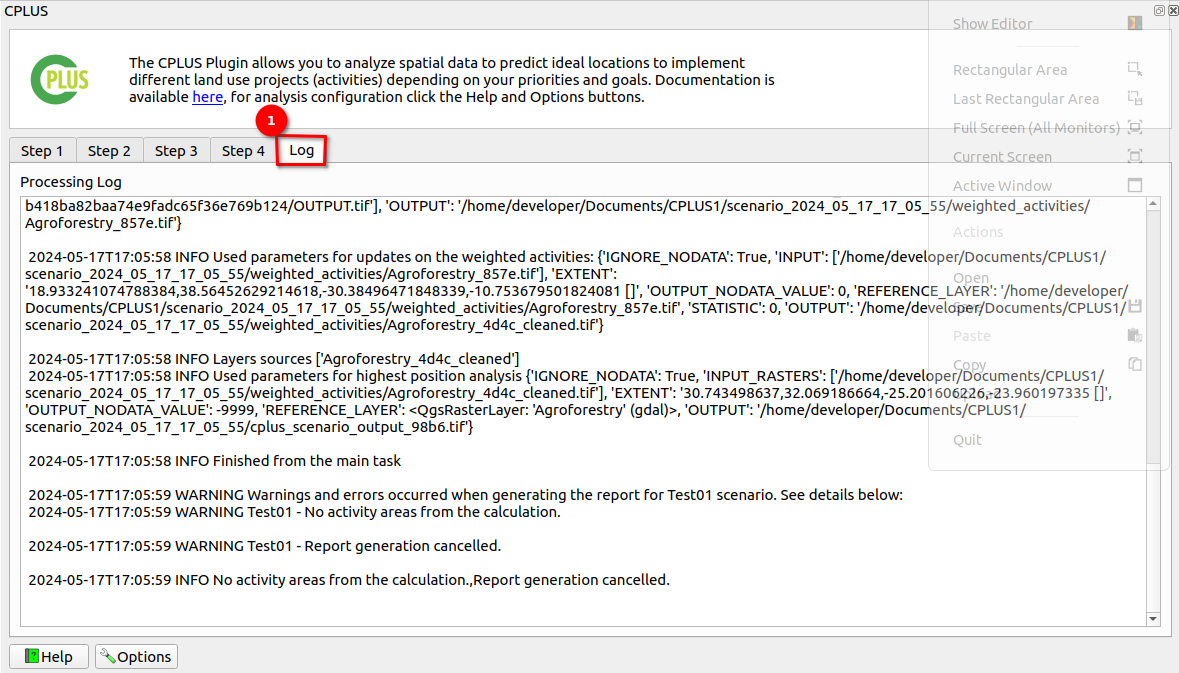
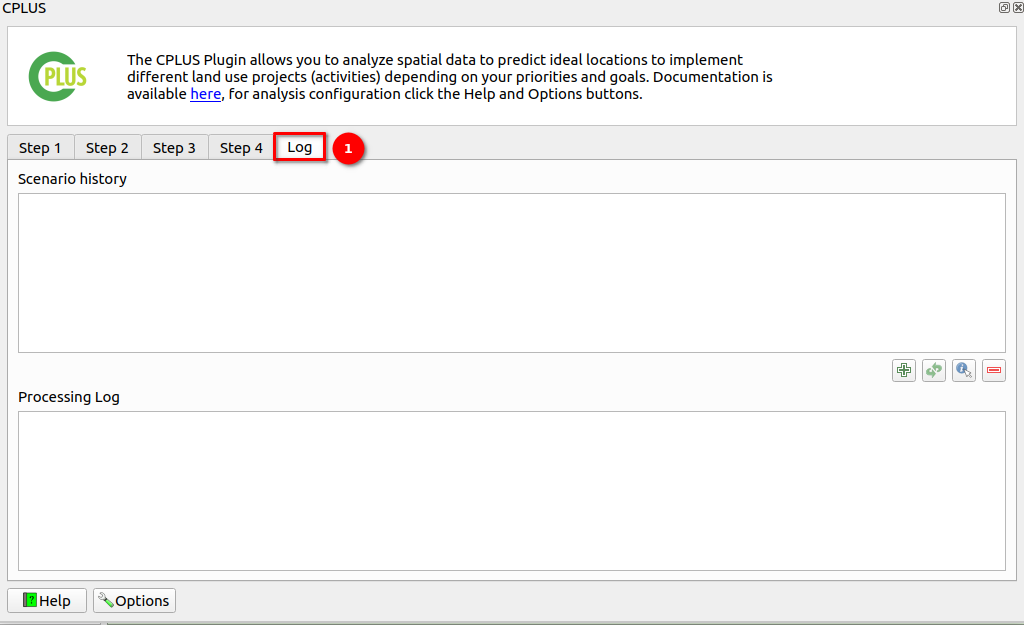
Update the logs user guide

Changed region(s): [[0.0, 0.0, 1.0, 1.0], [0.8125, 0.0912, 0.9375, 0.152]]

diff --git a/docs/user/guide/logs.md b/docs/user/guide/logs.md
@@ -1,13 +1,41 @@
 # Log
 
-Click on the 1⃣ `Log` option to access detailed logs of the processing steps.
+Welcome to the `Log Tab!` This section provides comprehensive insights into scenario history and processing logs. Here is a quick guide to navigating this feature.
+
+Click on the 1⃣ `Log` option to access the log tab.
 
 ![Logs](./img/logs-1.png)
 
-The log feature displays all functions and processes performed by the plugin during analysis. These logs are saved within the scenario file.
+## Scenario History
 
-Each log entry is designed to provide clear and concise information, aiding in the tracking and debugging of the validation process within the system.
+This section displays a record of past scenarios executed within the system.
 
-![Logs](./img/logs-2.png)
+### Buttons Available
 
-The log option serves as a valuable tool for understanding the sequence of actions taken by the plugin, assisting users in troubleshooting and ensuring the accuracy of the analysis.
+**Plus Icon:** Click this button to add scenarios to the history section for review and analysis.
+
+**Refresh Button:** Use this button to update the scenario history with the latest information.
+
+**Information Icon:** Click here to access helpful information and tips related to scenarios.
+
+**Minus Icon:** Remove specific scenarios from the history section to streamline displayed records.
+
+![Scenarion history](./img/logs-2.png)
+
+
+## Processing Log
+
+Here, you can view detailed logs of the current processing scenario.
+This log provides real-time insights into actions, events, and outcomes within the ongoing scenario.
+
+![Processing log](./img/logs-3.png)
+
+## Usage Tips
+
+- Use the scenario history to review past activities and performance trends.
+
+- Utilise the processing log to monitor the progress of current scenarios and diagnose any issues.
+
+- Take advantage of the available buttons to manage and customise your log viewing experience.
+
+- By leveraging the Log Tab effectively, you can gain valuable insights into system activities, optimise performance, and streamline workflow processes. If you have any questions or need assistance, don't hesitate to reach out to our support team.
